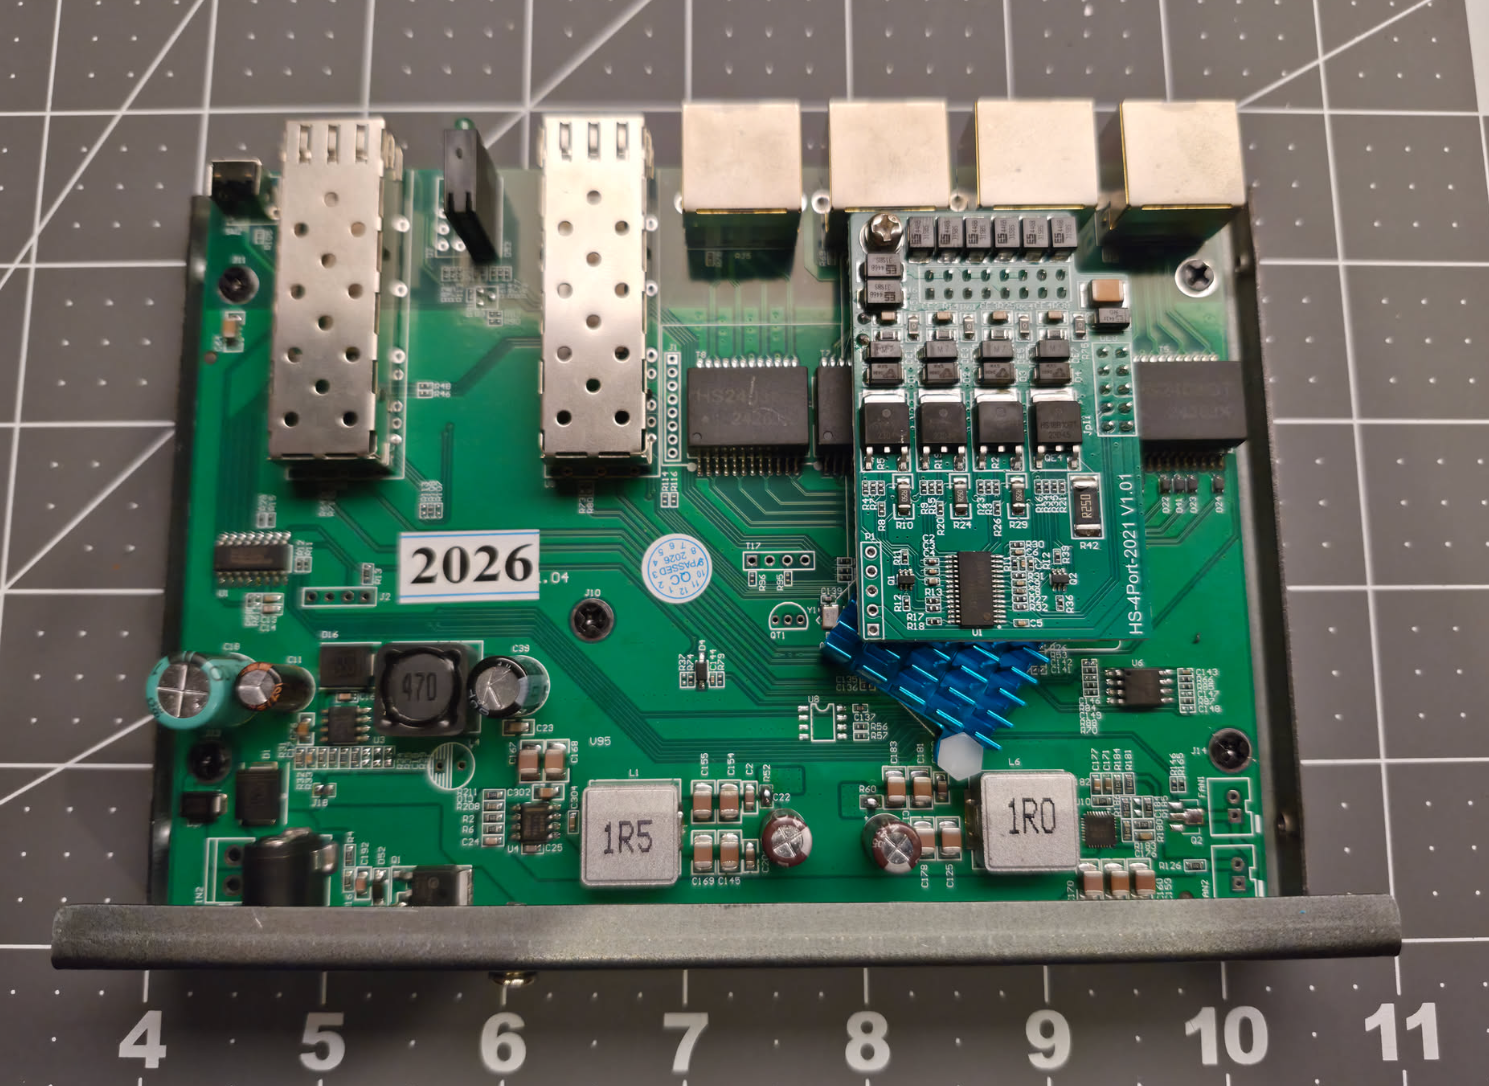
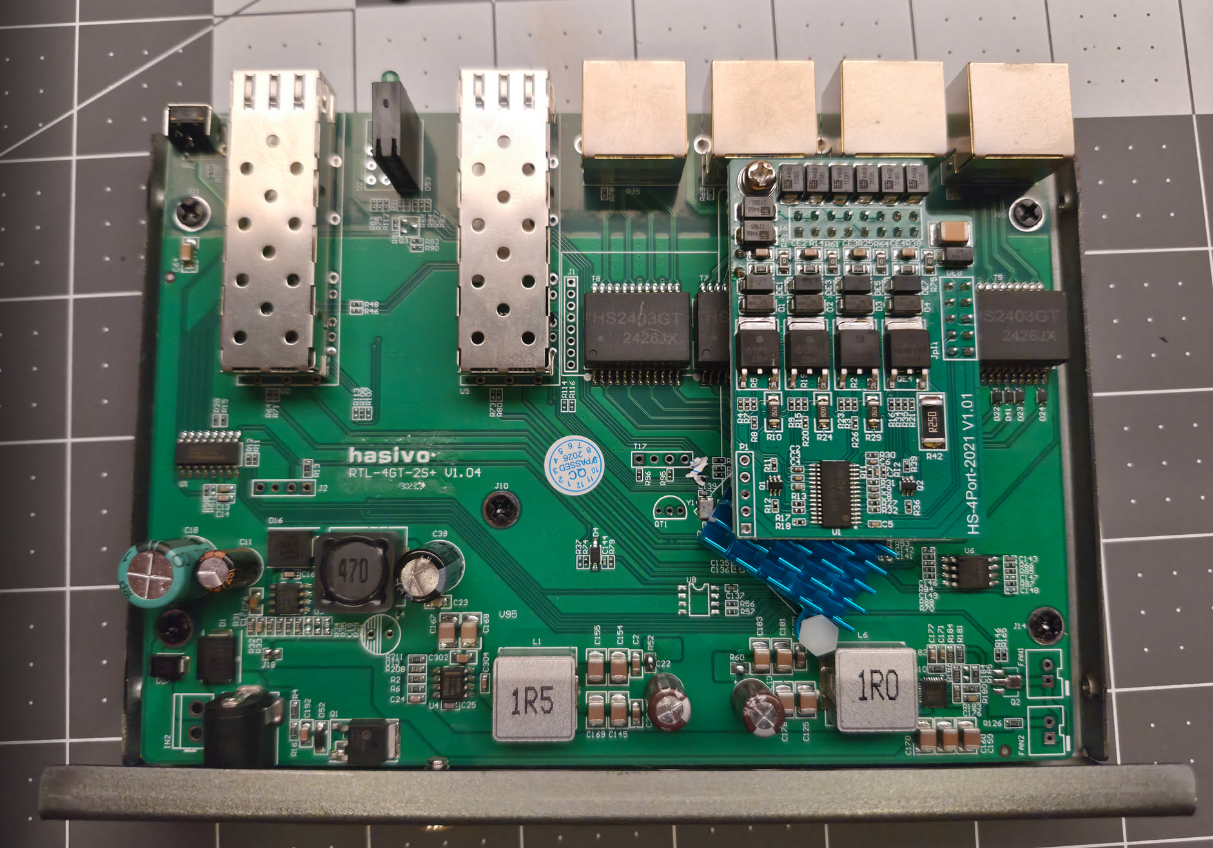
Updated image, name & comments

diff --git a/machine/pcb/RTL_4GT_2S__V1_04.c b/machine/pcb/RTL_4GT_2S__V1_04.c
@@ -1,7 +1,7 @@
 #include "machine_defs.h"
 
 /*
- * POE Plus S604GTP-2SX-SL  (4x copper PoE + 2x SFP+, RTL8372)
+ * POEPlus S604GTP-2SX-SL  (4x copper PoE + 2x SFP+, RTL8372)
  *
  * Starting point:
  *   - Copper ports / LEDs: taken from HASIVO_S600W_4GT_2XGT_SE (copper LEDs confirmed working on this board)
@@ -39,13 +39,18 @@ __code const struct machine machine = {
 	.high_leds = { .mux = LED_28_SYS | LED_29, .enable = LED_28_SYS | LED_29 },
 	.port_led_set = { 0, 0, 0, 1, 0, 0, 0, 0, 1 },
 	.led_sets = {
-		{	/* copper ports 1-4 */
+		{	/* Copper ports 1-4 
+			*  Amber = 2.5G
+      *  Green = 1G/100M/10M with activity
+			*/
 			LEDS_2G5 | LEDS_1G | LEDS_100M | LEDS_10M | LEDS_LINK | LEDS_ACT,
 			LEDS_2G5 | LEDS_LINK,
 			LEDS_1G | LEDS_100M | LEDS_10M | LEDS_LINK,
 			0,
 		},
-		{	/* SFP ports 5-6 */
+		{	/* SFP ports 5-6 
+			*  Green LED for all valid speeds
+			*/
 			LEDS_10G | LEDS_5G | LEDS_2G5 | LEDS_1G | LEDS_100M | LEDS_10M | LEDS_LINK | LEDS_ACT,
 			LEDS_10G | LEDS_LINK,
 			LEDS_5G | LEDS_2G5 | LEDS_1G | LEDS_LINK,

diff --git a/doc/supported_devices.md b/doc/supported_devices.md
@@ -48,7 +48,7 @@ The following devices have been tested and are fully working:
 | MokerLink| ZX_SWTGW218AS   | Yes     | [PCB-SWTG118AS-V2.0-16029](devices/PCB-SWTG118AS-V2.0-16029.md)                       | 2M    | 8 + 1 |
 | Netcore  | GS9             | No      | [PB-2132](devices/PB-2132.md)                                                         | 4M    | 8 + 1 |
 | ONT      | ONT-S207CW-62TS-SE | No   | [PCB-SWTG024AS-A-2.0.1](devices/NONAME-20240111.md)                                   | 0.5M  | 4 + 2 |
-| POE Plus | S604GTP-2SX-SL  | Yes     | [RTL-4GT-2S+ V1.04](devices/RTL-4GT-2S+_V1.04.md)                                     | 2M    | 4 + 2 |
+| POEPlus  | S604GTP-2SX-SL  | Yes     | [RTL-4GT-2S+ V1.04](devices/RTL-4GT-2S+_V1.04.md)                                     | 2M    | 4 + 2 |
 | RealHD   | PSW8-25MG       | Yes     | [PCB-AFGW SWTG218ANS V2.0.2](devices/PCB-AFGW-SWTG218ANS_V2.0.2_23308.md)             | 2M    | 8 + 1 |
 | Ruiying  | RY-4GT-2SX      | No      | [FG-4GT-2SX_V2.0](devices/FG-4GT-2SX_V2.0.md)                                         | 4M    | 4 + 2 |
 | Ruiying  | RY-8GT-1SX      | No      | [FG-8GT-1SX](devices/FG-8GT-1SX.md)                                                   | 1M    | 8 + 1 |

diff --git a/doc/devices/RTL-4GT-2S+_V1.04.md b/doc/devices/RTL-4GT-2S+_V1.04.md
@@ -1,4 +1,4 @@
-# POE Plus S604GTP-2SX-SL
+# POEPlus S604GTP-2SX-SL
 
 RTL8372-based 4×2.5G PoE + 2×SFP+ switch.
 
@@ -12,7 +12,7 @@ make MACHINE=S604GTP_2SX_SL
 
 | Brand | Type | Managed | PCB | Flash | Chip RTL |
 |-------|------|---------|-----|-------|----------|
-| POE Plus | S604GTP-2SX-SL | Web (stock) | Hasivo RTL-4GT-2S+ V1.04 | 2 MB | RTL8372 (non-N) |
+| POEPlus | S604GTP-2SX-SL | Web (stock) | Hasivo RTL-4GT-2S+ V1.04 | 2 MB | RTL8372 |
 
 
 ### What works
@@ -40,7 +40,7 @@ Front panel
 
 <img src="photos/RTL-4GT-2S+_V1.04/front.png" width="400" />
 
-PCB, marked `Hasivo RTL-4GT-2S+ V1.04` (under the 2026 sticker), with the PoE
+PCB, marked `Hasivo RTL-4GT-2S+ V1.04` with the PoE
 daughterboard fitted over the RJ45 ports
 
 <img src="photos/RTL-4GT-2S+_V1.04/pcb.png" width="600" />
